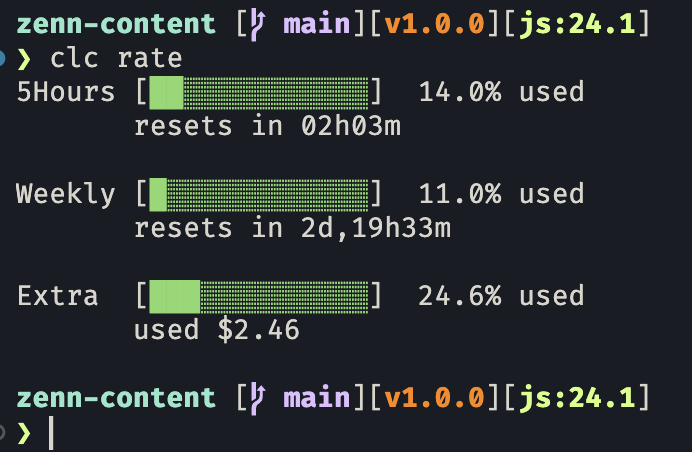
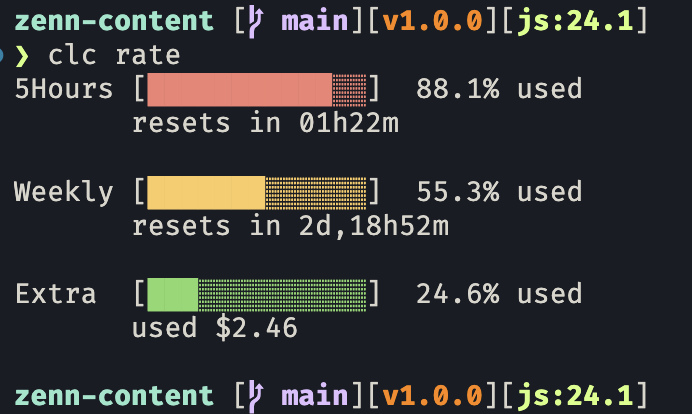
doc: change img to show red and orange percentage-zone, remove text-base output result

diff --git a/README.md b/README.md
@@ -7,20 +7,7 @@ Zenn記事: https://zenn.dev/masa0902dev/articles/clc-claude-code-rate
 
 Python3.13にて, 外部パッケージなしで開発しました.
 
-```sh
-❯ clc rate
-5Hours [██░░░░░░░░░░░]  17.0% used
-       resets in 01h59m
-
-Weekly [█░░░░░░░░░░░░]   4.0% used
-       resets in 6d,39m
-
-Extra  [███░░░░░░░░░░]  24.6% used
-       used $2.46
-
-```
 <img src="./img-cmd.png" width="400" alt="私の環境での実際の見た目">
-
 
 - 使用率に応じてバーが色分けされます.
 - 見た目や表示内容のカスタマイズは, `config.json` を編集するだけで可能です.